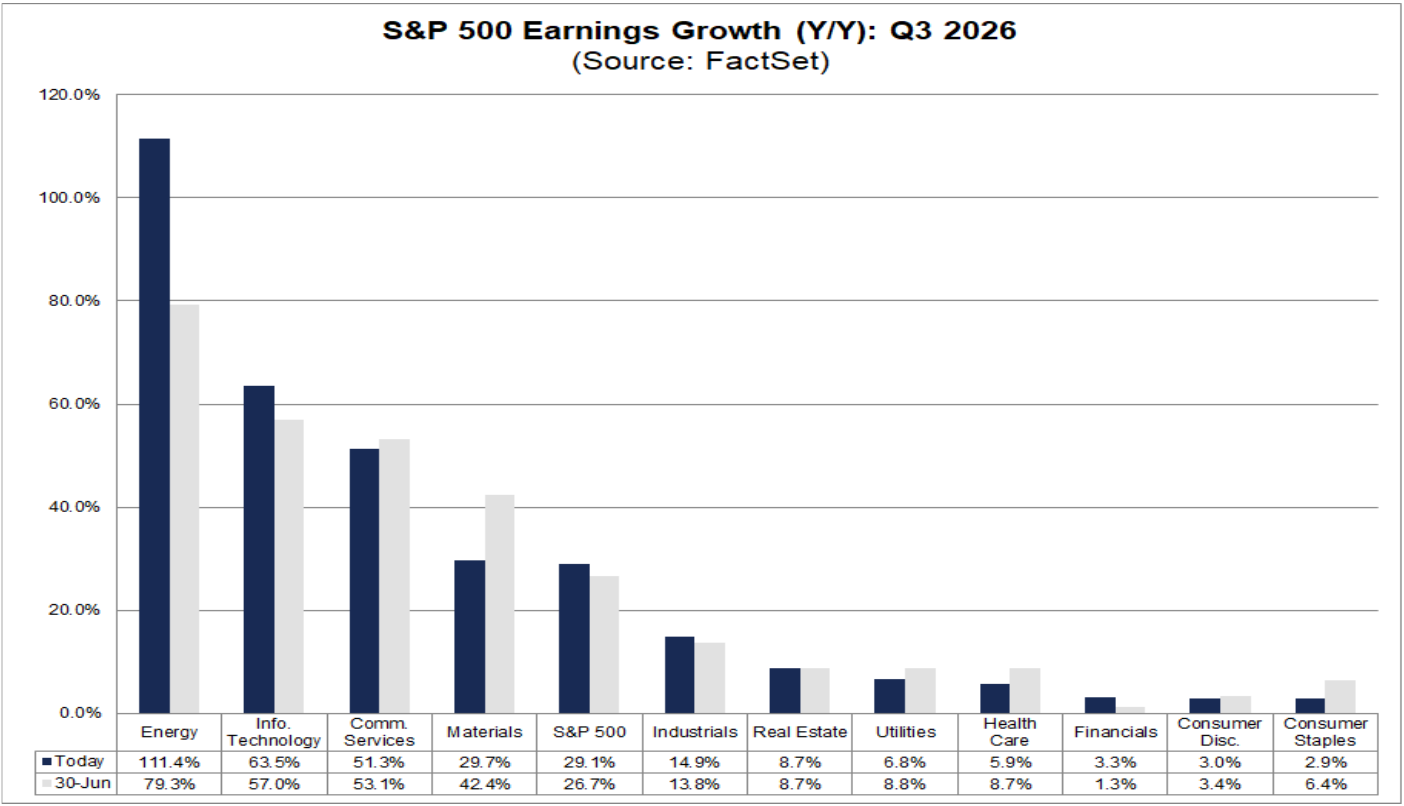
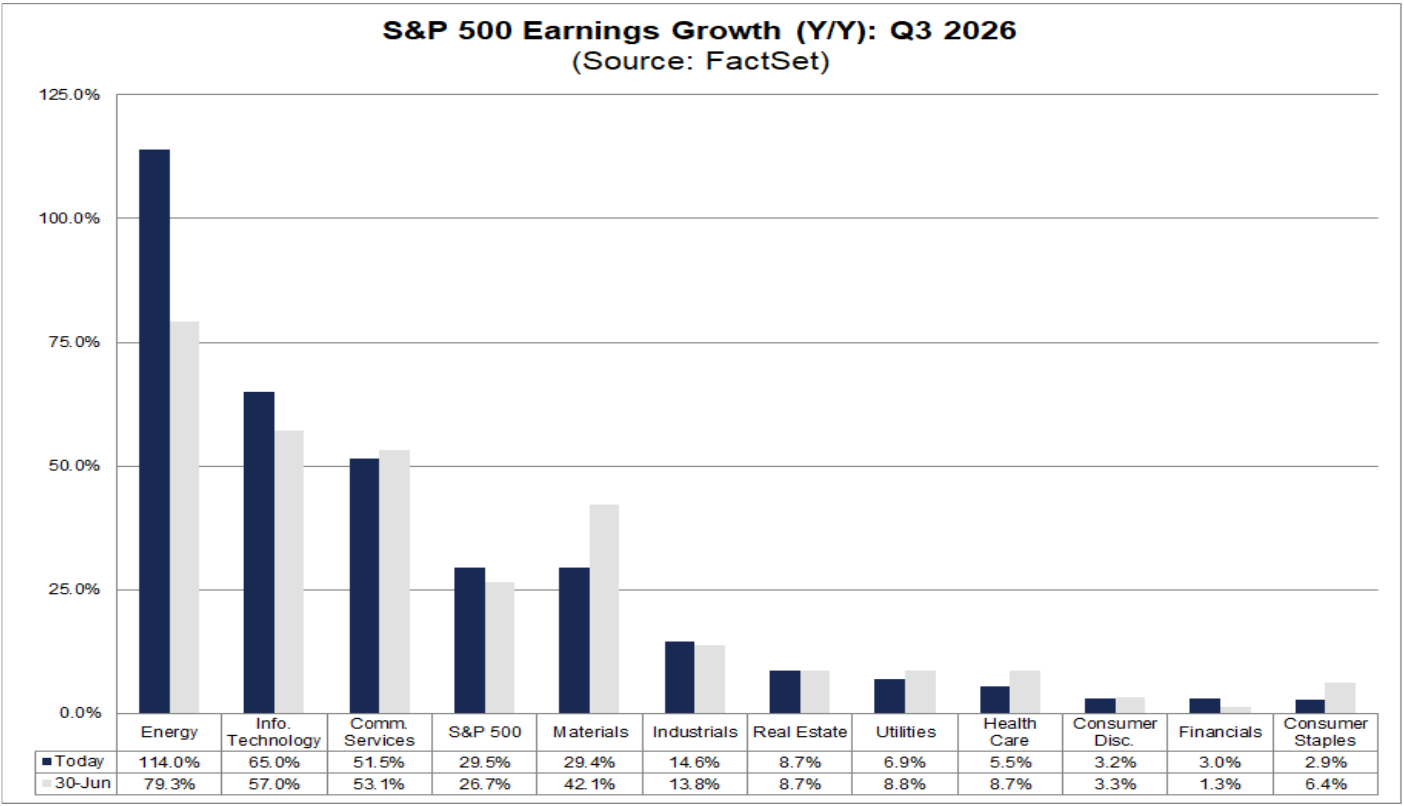
draft(mia): 宽度稿 v5 —— 数字全部换到 10-02 收盘、理顺逻辑、1999 图挪到反方
Andy 2026-10-04：「别人的观点精简，但是整篇文章的逻辑要通顺。最后确认我们数据是最新的周五10/2收盘后的数据。」
breadth.json main b9fdf507f（market data 2026-10-02）；FactSet Earnings Insight 2026-10-02 版；
半导体 120 只序列用 T-1002-80 build_series.py 原样重跑到 10-02（对照闸 93/93）。

diff --git a/Fluxus_Substack/drafts/breadth_2026-10/tools/chart_semis.py b/Fluxus_Substack/drafts/breadth_2026-10/tools/chart_semis.py
@@ -4,7 +4,7 @@ import matplotlib.pyplot as plt, matplotlib.dates as mdates
 S='/private/tmp/claude-501/-Users-taolezhu-Documents-AI-Trading-System/bc27bd12-cd07-4578-ac34-8d9bf23a0e1b/scratchpad'
 d=pd.read_csv(f'{S}/semi.csv',parse_dates=['date']).set_index('date')
 s=d['semi_pct_above_50sma']; m=d['mkt_pct_above_50sma']
-assert s.iloc[-1]==74.17 and m.iloc[-1]==25.21 and len(d)==43, (s.iloc[-1],m.iloc[-1],len(d))
+assert s.iloc[-1]==77.5 and m.iloc[-1]==27.43 and len(d)==44, (s.iloc[-1],m.iloc[-1],len(d))
 cross=d.index[(s>m)][0]
 BLUE='#2563eb'; INK='#111827'; SUB='#4b5563'; GREY='#9ca3af'; GRID='#e5e7eb'
 plt.rcParams.update({'font.family':'DejaVu Sans','font.size':11})
@@ -23,9 +23,9 @@ a.spines['left'].set_color(GRID); a.spines['bottom'].set_color(GRID); a.tick_par
 a.xaxis.set_major_locator(mdates.WeekdayLocator(byweekday=0,interval=2)); a.xaxis.set_major_formatter(mdates.DateFormatter('%b %-d'))
 a.text(0,1.03,'Share of stocks above their 50-day moving average',transform=a.transAxes,color=SUB,fontsize=10,va='bottom')
 fig.text(0.075,0.945,'Semis pulled ahead of the market on September 18',fontsize=16,fontweight='bold',color=INK,va='top')
-fig.text(0.075,0.875,'120 semiconductor stocks vs all stocks in our dashboard universe, Aug 3 – Oct 1, 2026.',fontsize=10,color=SUB,va='top')
-fig.text(0.075,0.845,'Only one of the 120 made a new 52-week high in these 43 sessions.',fontsize=10,color=SUB,va='top')
-fig.text(0.075,0.035,'Data: Fluxus dashboard breadth series · semis = three semiconductor theme groups combined',fontsize=8.5,color=SUB)
+fig.text(0.075,0.875,'120 semiconductor stocks vs all stocks in our dashboard universe, Aug 3 – Oct 2, 2026.',fontsize=10,color=SUB,va='top')
+fig.text(0.075,0.845,'Only one of the 120 made a new 52-week high in these 44 sessions.',fontsize=10,color=SUB,va='top')
+fig.text(0.075,0.035,'Data: Fluxus dashboard breadth series, Oct 2 close · semis = three semiconductor theme groups combined',fontsize=8.5,color=SUB)
 fig.text(0.97,0.035,'@Fluxus_Z',fontsize=9.5,color=INK,fontweight='bold',ha='right')
 fig.savefig(f'{S}/semis_vs_market_50dma_fluxus.png',facecolor='white')
 print('ok',cross.date())

diff --git a/Fluxus_Substack/drafts/breadth_2026-10/DRAFT_v5.md b/Fluxus_Substack/drafts/breadth_2026-10/DRAFT_v5.md
@@ -1,0 +1,138 @@
+# 宽度 · 稿 v5（2026-10-04）
+
+*Writer Mia 执笔。语言 EN（对外稿）。v4 → v5 按 Andy 10-04「别人的观点精简，但是整篇文章的逻辑要通顺」「确认我们数据是最新的周五10/2收盘后的数据」：全部数字换到 10-02 收盘，理顺段落衔接。*
+*〔方括号〕＝待补槽。*
+
+---
+
+〔标题槽 · 工作标题：**Breadth is the worst in years. I'm still long semis.**〕
+
+Nearly three out of four US stocks are below their 50-day moving average. Since early August, the semiconductor ETF is up 16%.
+
+I've argued both sides of this in my Discord over the past two weeks. Once I said the breadth worry didn't matter. A few days later I said it was exactly what could end the trade. Here are both arguments, side by side.
+
+## How bad it is
+
+From our dashboard, after the close on Friday, October 2:
+
+| | |
+|---|---|
+| Stocks above their 50-day average | **27.43%** |
+| Stocks above their 200-day | **37.50%** |
+| New 52-week highs vs new lows (common stock only) | **7 vs 27** |
+| McClellan oscillator, NYSE | **−15.58** |
+| McClellan oscillator, Nasdaq-100 | **+50.21** |
+
+The last two rows are the same indicator on two different lists of stocks. On the NYSE it reads like a selloff. On the Nasdaq-100 it reads like a rally.
+
+So breadth is bad. It just isn't bad everywhere.
+
+## Why it's bad: the train hit the brakes
+
+Think of liquidity, the speed at which money is being printed and pushed into markets, as the speed of a train.
+
+This year the train didn't stop. Somebody hit the brakes: the Fed hiking on one side, the Treasury propping up the bond market on the other. If the braking is clean, the train keeps going, just slower. If it's clumsy, the ride gets bumpy. The market right now is the sum of two forces, the momentum it already had and the push-back from the brakes.
+
+The brakes don't hit every car the same way. Rate hikes made breadth bad because companies that don't make much money now make even less. That's IWM. When rates stay high, what holds up is cash flow plus growth, and only a few sectors have both.
+
+Rates matter this much because of where they are. The 10-year yields about 5.2%. That means a Treasury pays you about 1/19 of its price every year, a P/E of about 19. The S&P 500 trades at 19.0 times forward earnings. When a bond pays about the same as the index, a stock has to earn its place with real earnings growth. Small companies with thin margins and no pricing power can't.
+
+And real earnings growth is in very few places. FactSet's estimates for this quarter, as of October 2:
+
+![S&P 500 earnings growth by sector, Q3 2026 (FactSet Earnings Insight, October 2, 2026)](factset_q3_2026_sector_growth.png)
+
+The S&P 500 is expected to grow earnings 29.5%. Six of the eleven sectors are growing at single digits. Financials are at 3.0%. Consumer staples are at 2.9%. Those are the cars the brakes hit hardest.
+
+Breadth follows the earnings. We track 120 semiconductor stocks. On October 2, 78% of them were above their 50-day average, against 27% for all stocks. On the 200-day it was 70% against 38%.
+
+![Share of stocks above their 50-day average: 120 semis vs all stocks, August 3 – October 2, 2026](semis_vs_market_50dma_fluxus.png)
+
+The 50-day lead is new, though. Before September 18, semis were behind the market, by as much as 42 points. And in those 44 sessions, only one of the 120 made a new 52-week high. The median stock is still 29% below its high. Semis are climbing back from a drawdown. They haven't broken out to new highs yet.
+
+So the semis car is still being pulled. It just started from further back than the headlines suggest.
+
+## Why I'm still long semis: the chart
+
+Semis are up 16% since August 3, through the October 2 close. SOXX and SMH moved almost together, +16.1% and +15.6%. SMH is now about 6% below its June high. When they lead, they really lead.
+
+I watch the rotation inside the group more than the index. Over the last month money has moved from one sub-theme to the next. CPUs went first (AMD, ARM, INTC), then memory (MU, SNDK), then photonics, then equipment (LRCX, KLAC, AMAT on September 29). On October 1 it was the small semis: TSEM, FORM and SMTC broke out. A group that rotates inside itself can keep going for a long time. That's also why I'd rather hold SOXX itself than guess the next sub-theme.
+
+On pullbacks, the anchored VWAP from SOXX's all-time high has held as support. When I checked MU on September 22, it wasn't extended on ATR from its 50-day. On the September 28 gap-down I could see put sellers stepping in on semis. They usually put in the low of the day.
+
+## Why I'm still long semis: the business
+
+When rates stay high, the market pays for cash, and these companies make a lot of it.
+
+CPUs are getting re-rated. ARM, AMD and INTC sell into the agentic-AI build-out and are also a bottleneck in it, and OpenAI and Meta are big customers. Foundries have the deepest moat in AI, and TSMC and Intel are already short of capacity. MU's September 30 quarter was huge. NVDA announced a 150-billion buyback on September 28.
+
+The same FactSet report has one more number. Semiconductors and semiconductor equipment are expected to grow earnings 130% this quarter. Take them out and the technology sector's growth falls from 65.0% to 24.4%. A large part of the tech trade is the semis trade.
+
+Semis and AI are still going up. They're still my first choice.
+
+## The case against me
+
+My own words, October 1:
+
+> "Narrow leadership is normally fine for a while, but if everything else continues to worsen, it means everyone is hiding in those leaders. At one point there will be no buyers left, and macro will crash it too."
+
+History has examples. Here is 1999:
+
+![NYSE advance-decline line vs Nasdaq-100, January 1999 – July 2000 (StockCharts)](1999_nyse_adline_vs_ndx.jpg)
+
+The NYSE advance-decline line rolled over in the summer of 1999 and fell almost without a break into March 2000. When the Nasdaq-100 finally topped, the line was already near its low. Breadth was right in the end. It was about eight months early.
+
+2007 went the same way. The NYSE advance-decline line peaked at the beginning of June. The NYSE Composite made new highs in July and again in October, and the S&P 500 topped on October 9, about four months after breadth.
+
+## The case for ignoring it (for now)
+
+Also my own words, September 28:
+
+> "Bad breadth can continue while money piles into narrow leadership. Look at 1999."
+
+Go back to the same chart. During those eight months of falling breadth, the Nasdaq-100 roughly doubled, from about 2,300 to about 4,700. Being early on that trade was expensive.
+
+In the same post I said crowded doesn't mean reversal. In a secular bull market, macro worries sometimes stay worries.
+
+Yields are the same story. Today people worry about a 10-year above 5%. In the 1990s, 5% was the floor.
+
+![In the 1990s bull market, the 10-year closed at or above 5% on 95.5% of trading days](1990s_10y_above_5pct_fluxus.png)
+
+From its October 1990 low to its March 2000 peak, the S&P 500 rose 417%. On 95.5% of those 2,366 trading days, the 10-year closed at or above 5%. It stayed above 5% on every close for 1,979 days in a row, until LTCM and Russia pushed it under in September 1998. The median close for the decade was 6.4%.
+
+You can build a scary backtest out of high yields, weak breadth and an index near its high. Each of those has come before big drawdowns. But a pattern from the past only holds if nothing important has changed. Change earnings, valuations or liquidity, and the same setup can end very differently. What's different this time is earnings, and most of them are in semis.
+
+〔收口槽 —— Andy 亲笔。边界：不写对仗格言、不复述以上内容、收在下一步或一个邀请上。〕
+
+---
+
+## 🔴 交接
+
+**v4 → v5：数字全部换到 10-02（周五）收盘**
+| 数 | v4 | v5 | 来源 |
+|---|---|---|---|
+| 50 日线上方占比 | 25.21% | **27.43%** | `data/output/breadth.json`，main `b9fdf507f`「market data 2026-10-02」 |
+| 200 日线上方占比 | 36.41% | **37.50%** | 同上 |
+| 52 周新高/新低（普通股） | 7 / 29 | **7 / 27** | 同上 |
+| McClellan NYSE / NDX | −31.21 / +36.67 | **−15.58 / +50.21** | 同上 |
+| 半导体 120 只 50 日线 / 200 日线 | 74.17 / 65.25 | **77.50 / 70.34** | Linda 的 `build_series.py` 原样重跑到 10-02（只读，没改她的目录）；对照闸 10-02 自算 93 只 = 已发布 93 只 |
+| 120 只里 52 周新高（全窗口） | 43 天 1 次 | **44 天 1 次** | 同上 |
+| 中位股离 52 周高点 | 31.5% | **29.3%** | 同口径（日内最高价、≥200 根日线、118 只）现算 |
+| 10 年期 | 「near 5%」 | **「about 5.2%」** | FRED `DGS10`：09-30 5.29 · 10-01 5.24（10-02 FRED 未更新） |
+| 标普远期 P/E | 19.2 | **19.0** | FactSet Earnings Insight **2026-10-02** 版（周三收盘口径） |
+| 标普 Q3 盈利增速 | 29.1% | **29.5%** | 同上 第 1 页 |
+| IT / 半导体 / 剔除半导体的 IT | 63.5 / 126 / 24.2 | **65.0 / 130 / 24.4** | 同上 第 13 页 |
+| 金融 / 必需消费 | 3.3 / 2.9 | **3.0 / 2.9** | 同上 第 26 页图 |
+| SOXX / SMH 8-03 以来、SMH 离 6 月高点 | +16.07 / +15.61、−6.14% | 不变，本来就是 10-02 收盘 | Linda T-1004-10（`0e2ac8bd7`） |
+
+FactSet 图换成 10-02 版第 26 页（`factset_q3_2026_sector_growth.png` 同名覆盖）。半导体图重画到 10-02，脚本断言改为 44 天、77.5 / 27.43。
+
+**逻辑理顺（Andy「别人的观点精简，但是整篇文章的逻辑要通顺」）**
+- 全文一条线：宽度很差 → 差在哪里（只差在一部分）→ 为什么（火车刹车：利率高 → 债券和股票一样贵 → 只有真盈利的板块撑得住）→ 盈利确实只集中在少数板块（FactSet 图）→ 宽度跟着盈利走（我们的半导体图）→ 我为什么还拿半导体（图形面、基本面）→ 反方 → 正方 → 收口。
+- **1999 图挪到反方段**。v4 在反方里写「看下面的 1999 图」，图却在正方段，读者要往下翻再回来。现在反方先放图、讲「宽度最后是对的、早了八个月」；正方接着说「回到同一张图：这八个月里纳指 100 翻倍」。同一张图正反两用，顺序也对了。
+- 补了三句衔接：FactSet 图后「Those are the cars the brakes hit hardest」接回火车比喻；半导体段开头改成「Breadth follows the earnings」接上一段；半导体段结尾改成「the semis car is still being pulled. It just started from further back than the headlines suggest」，引出下一节「我为什么还拿」。
+- 删了「The math is simple」这类提示语。
+- 别人的观点只剩一处：正方最后一段「回测能做出很强的空头论证，但历史规律不是物理定律」，已转述，不挂名。
+
+**一句是我加的，请确认**：正方段末「What's different this time is earnings, and most of them are in semis.」
+
+**仍空着**：标题 · 收口。
